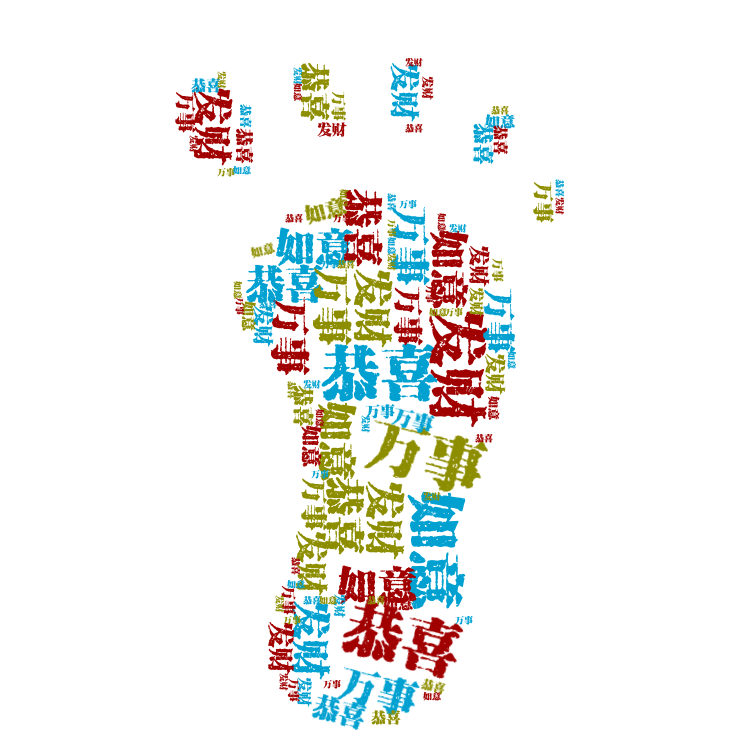
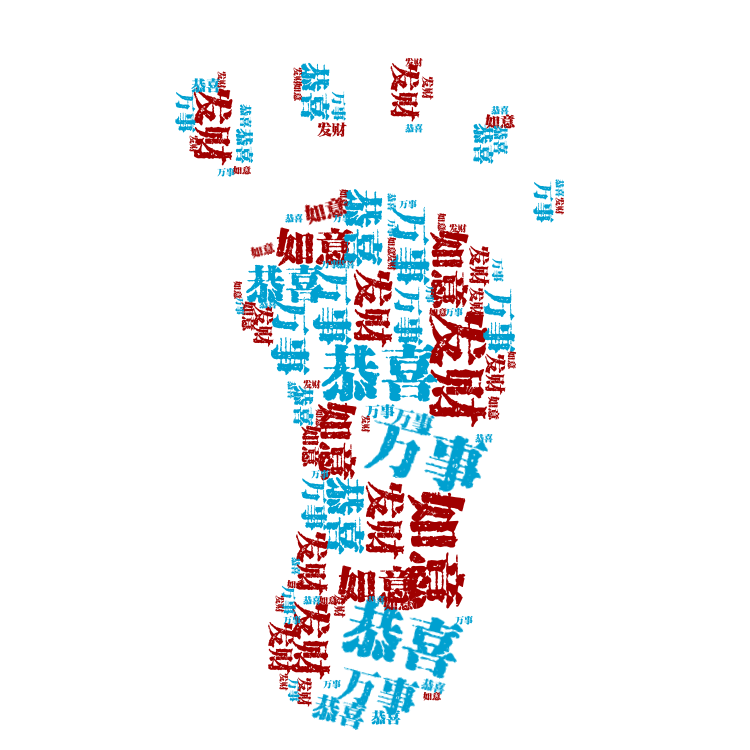
完善文档

diff --git a/boot/main.go b/boot/main.go
@@ -11,7 +11,7 @@ func renderNow() {
 	colors := []*color.RGBA{
 		&color.RGBA{0x0, 0x60, 0x30, 0xff},
 		&color.RGBA{0x60, 0x0, 0x0, 0xff},
-		&color.RGBA{0x73, 0x73, 0x0, 0xff},
+		// &color.RGBA{0x73, 0x73, 0x0, 0xff},
 	}
 	render := wordcloud_go.NewWordCloudRender(60, 8,
 		"./fonts/xin_shi_gu_yin.ttf",

diff --git a/README.md b/README.md
@@ -3,7 +3,7 @@
 #### 效果图
 
 <img width="50%" src="/imgs/template.png"/>
-<img width="50%" src="/imgs/foot_template.png"/>
+<img width="50%" src="/imgs/template2.png"/>
 
 #### 测试步骤如下
 
